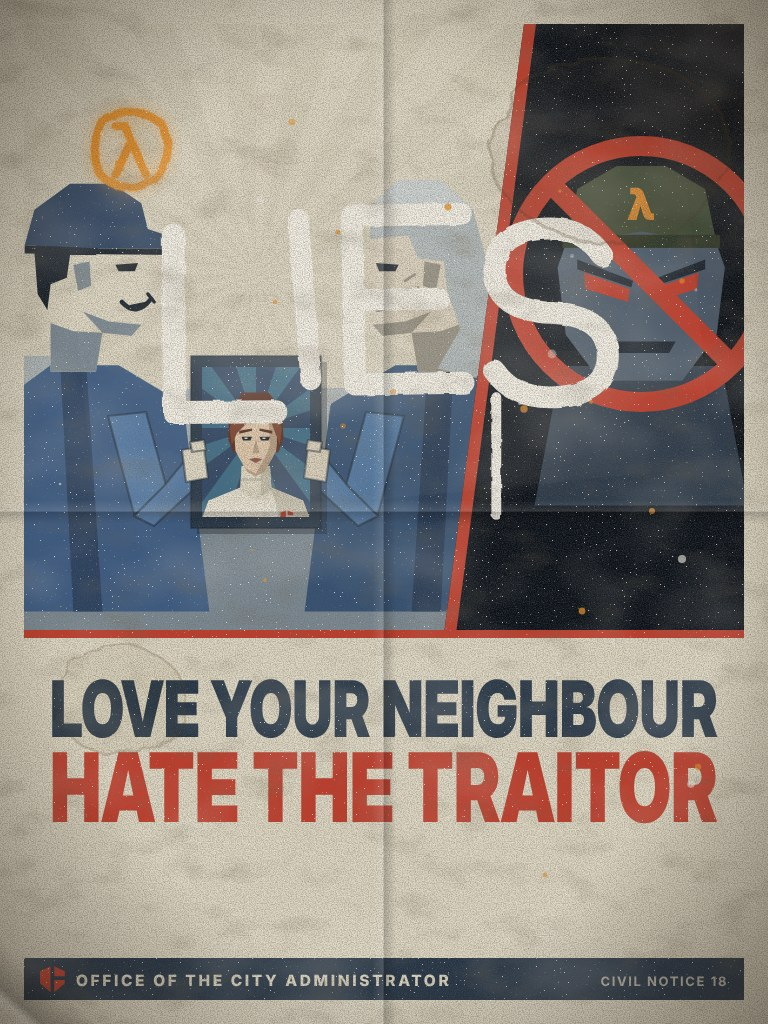
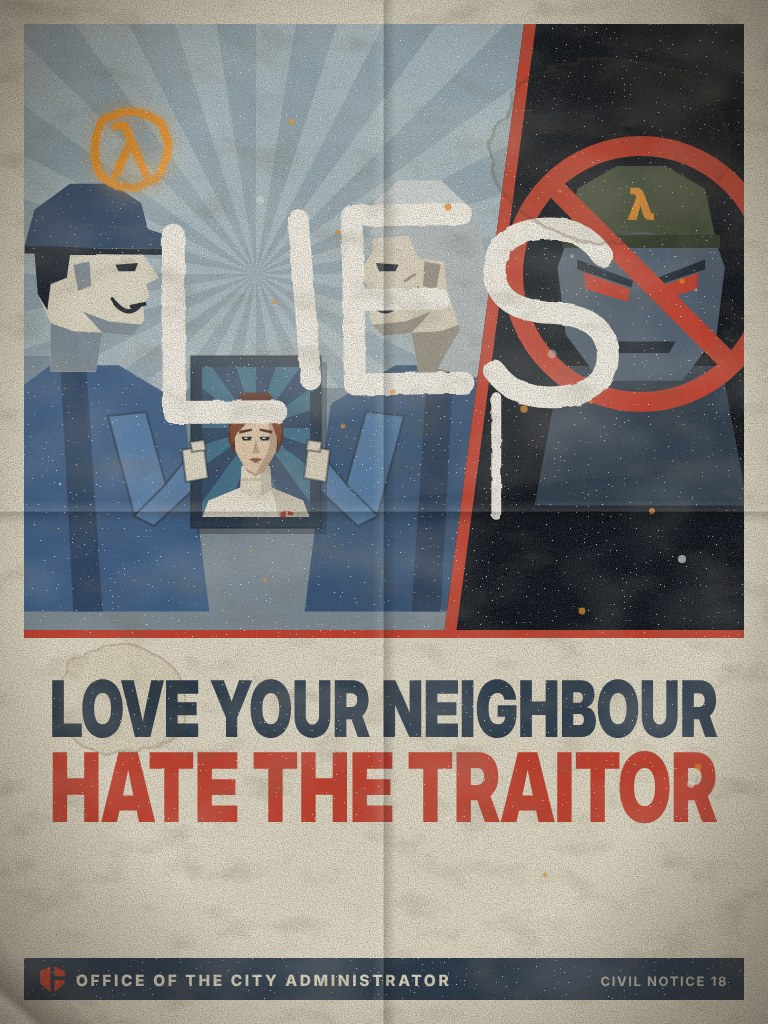
Slogan poster: smiles kept inside the faces, a sky that gives the faces an edge
Claude-Session: https://claude.ai/code/session_01Y8SXQorFoe55U3GQd1K7aN

Changed region(s): [[0.0312, 0.0, 0.6875, 0.4375]]

diff --git a/_dev/posters/slogan.js b/_dev/posters/slogan.js
@@ -5,12 +5,13 @@ const { E, L, T, skyline } = require('./dreamkit.js');
 
 const ART = {};
 ART.neighbour = () => {
-  let s = R(0, 0, 720, 610, '#d6cfba') + rays(232, 250, 40, 1000, C.paper, 0, 360, 'opacity=".75"');
-  s += skyline(470, C.steel2, '#d6cfba', 22, 110) + R(0, 466, 720, 144, C.steel);
+  // (a sky darker than their faces, so the faces have an edge)
+  let s = R(0, 0, 720, 610, '#8fa3ad') + rays(232, 250, 40, 1000, '#a9bac0', 0, 360, 'opacity=".8"');
+  s += skyline(470, '#74899a', '#a9bac0', 22, 110) + R(0, 466, 720, 144, C.steel);
   // the neighbours: the younger hands the older a framed portrait of the Administrator; both smile
   const body = (t, bd) => P('M-34,270 L-16,152 L30,118 L72,118 L112,142 L128,270Z', t) + P('M36,118 L52,118 L62,270 L44,270Z', bd);
   const scarf = P('M16,52 L24,22 L44,4 L70,4 L86,18 L88,40 L64,38 L58,52 L42,54 L40,72 L32,96 L46,120 L22,126 L10,86Z', C.steel2) + P('M24,22 L44,4 L70,4 L86,18 L60,20 L40,30Z', '#c9d0d0');
-  const smile = L('M74,79 Q83,89 92,77', C.ink, 2.8) + L('M90,74 L94,79', C.ink, 2);
+  const smile = L('M70,80 Q78,89 85,81', C.ink, 2.8) + L('M68,77 L71,81', C.ink, 2); // (kept inside the face: the lips end at x 88)
   const skinB = '#d8cdb8', shB = '#8f8a7c';
   s += G('translate(-22,150) scale(1.62)', body(C.blue, C.blueD) + head({ cap: C.blueD }) + smile);
   s += G('translate(488,150) scale(-1.62,1.62)', body('#335073', '#263a55') + head({ skin: skinB, sh: shB, hair: C.steel2 }) + scarf + smile + L('M60,62 L66,66 M58,70 L65,72', shB, 1.6));
